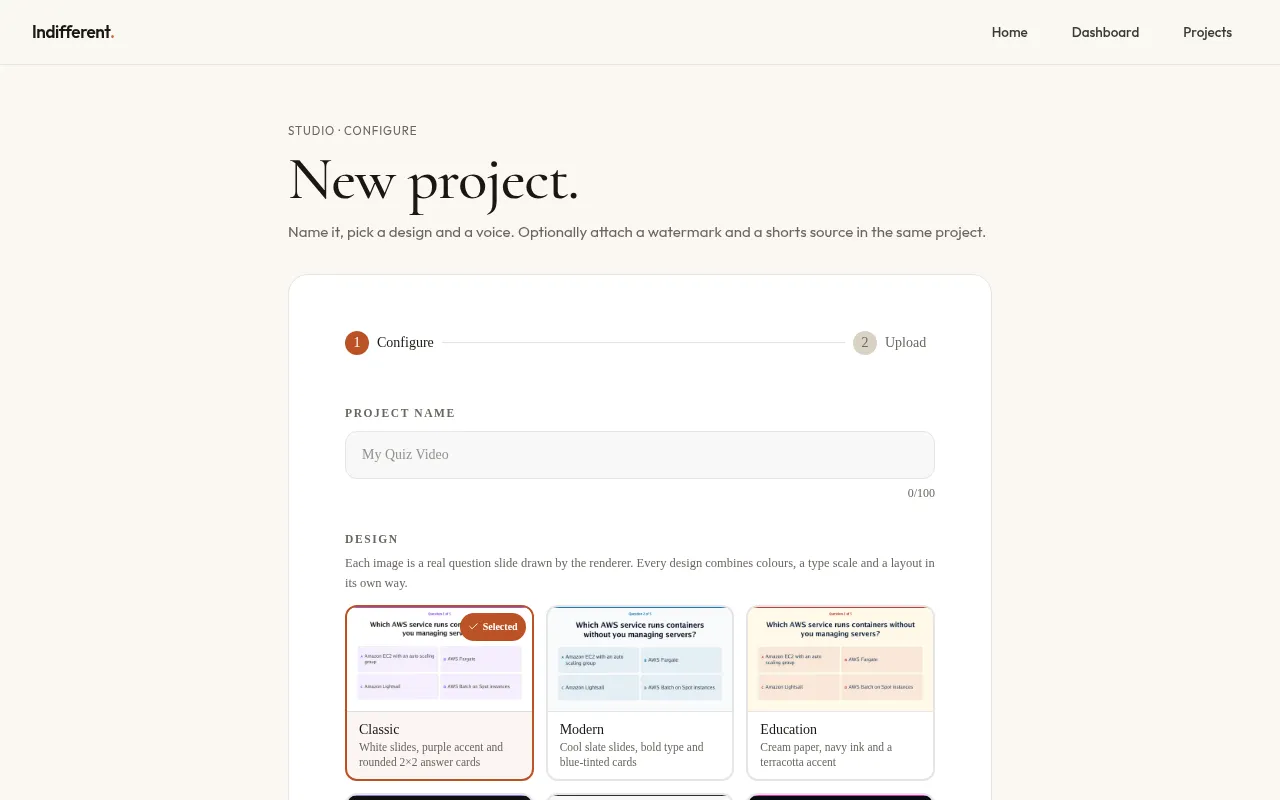
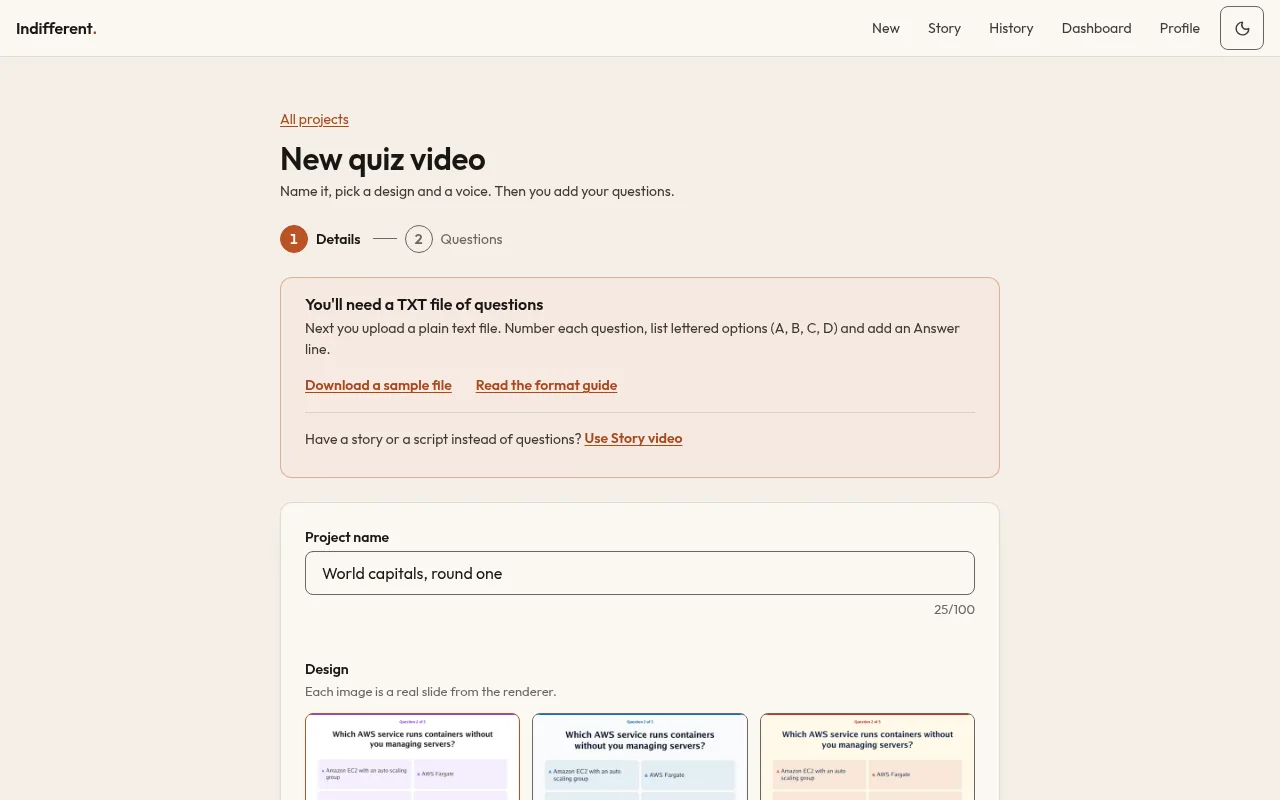
Final QA: render and touch-target fixes, CSP, SEO checker, navbar, screenshots (#256)
- Landing 'Start creating' no longer wraps at 320; use-case links show
  the audience only under 'Other use cases'
- Login: content keeps to a 1440px frame on very wide screens
- Sentence links (login terms, Help email) get 44px hit boxes without
  moving the text; landing footer email gets a 44px target
- Error snackbar: Material 20 --mat-snack-bar-* variables, Outfit, an
  inverse surface in both themes, 44px Dismiss
- Dashboard renders one navigation for the screen (sidebar from 64rem,
  top navbar below) instead of a hidden duplicate
- Profile grid column bounded, so the content tabs scroll in place
  instead of widening the page past 375px
- Activity chart's screen-reader table: cell text hidden too, so no
  hidden text sits under the card
- Thumbnail style tiles: focus ring on the label
- Navbar New goes to /new (tool picker); landmark named App sections
- CSP report-only connect-src adds www.googleadservices.com;
  check-csp.mjs fails if the Ads tag hosts are missing
- seo-files.mjs follows loadChildren routes (/profile/settings)
- /tools and /new screenshots retaken from the redesigned UI with stub
  data; /new uses the same images

diff --git a/frontend/src/app/pages/dashboard/dashboard.component.spec.ts b/frontend/src/app/pages/dashboard/dashboard.component.spec.ts
@@ -55,6 +55,11 @@ const full = (): Data => ({
   thumbnails: of({ thumbnails: [{ jobId: 't1', status: 'completed', thumbnailCount: 3, selected: false, createdAt: '2026-01-05T00:00:00Z', updatedAt: '2026-01-05T00:00:00Z' }], hasMore: false }),
 });
 
+/** Pretends the screen is at least 64rem wide (sidebar) or narrower (top navbar). */
+function screen(wide: boolean) {
+  spyOn(window, 'matchMedia').and.returnValue({ matches: wide, addEventListener: () => undefined, removeEventListener: () => undefined } as unknown as MediaQueryList);
+}
+
 function setup(data: Data) {
   TestBed.configureTestingModule({
     imports: [DashboardComponent],
@@ -164,6 +169,7 @@ describe('DashboardComponent', () => {
     expect(text('total')).toBe('16');
   });
   it('uses the shared app navbar and exactly one h1', () => {
+    screen(false);
     const { el } = setup(full());
     expect(el.querySelector('app-navbar')).toBeTruthy();
     expect(el.querySelectorAll('h1').length).toBe(1);
@@ -239,7 +245,19 @@ describe('DashboardComponent', () => {
     TestBed.resetTestingModule();
     expect(setup(none).el.querySelector('[data-testid="rendering"]')).toBeNull();
   });
+  it('renders one navigation for the screen: the top navbar when narrow, the sidebar from 64rem (#256)', () => {
+    screen(false);
+    let { el } = setup(full());
+    expect(el.querySelector('app-navbar')).toBeTruthy();
+    expect(el.querySelector('app-dashboard-sidebar')).toBeNull();
+    TestBed.resetTestingModule();
+    (window.matchMedia as jasmine.Spy).and.returnValue({ matches: true, addEventListener: () => undefined, removeEventListener: () => undefined } as unknown as MediaQueryList);
+    ({ el } = setup(full()));
+    expect(el.querySelector('app-dashboard-sidebar')).toBeTruthy();
+    expect(el.querySelector('app-navbar')).toBeNull();
+  });
   it('has desktop sidebar links to existing pages', () => {
+    screen(true);
     const { el } = setup(full());
     const hrefs = Array.from(el.querySelectorAll('app-dashboard-sidebar nav a')).map((a) => a.getAttribute('href'));
     expect(hrefs).toEqual(['/dashboard', '/projects', '/shorts', '/story', '/shorts/history', '/tools/add-watermark', '/profile']);

diff --git a/frontend/src/app/pages/dashboard/dashboard.component.ts b/frontend/src/app/pages/dashboard/dashboard.component.ts
@@ -1,4 +1,4 @@
-import { Component, OnInit, inject } from '@angular/core';
+import { Component, DestroyRef, OnInit, inject, signal } from '@angular/core';
 import { HttpContext } from '@angular/common/http';
 import { CommonModule } from '@angular/common';
 import { RouterLink } from '@angular/router';
@@ -107,9 +107,14 @@ const RECENT_LIMIT = 10;
     @media (prefers-reduced-motion: reduce) { .tool { transition: none; } .tool:hover { transform: none; } }
   `],
   template: `
-    <app-navbar class="top" />
+    <!-- One navigation for the screen: the sidebar from 64rem, the shared top navbar below (#256). -->
+    @if (!wide()) {
+      <app-navbar class="top" />
+    }
     <div class="shell">
-      <app-dashboard-sidebar class="side" />
+      @if (wide()) {
+        <app-dashboard-sidebar class="side" />
+      }
       <main id="main" class="hm">
         <app-email-confirm-banner />
         <div class="head">
@@ -266,6 +271,9 @@ export class DashboardComponent implements OnInit {
   private readonly storyVideos = inject(StoryVideoService);
   private readonly thumbnails = inject(ThumbnailService);
   private readonly api = inject(ApiService);
+  private readonly destroyRef = inject(DestroyRef);
+  /** True from 64rem, where the sidebar replaces the top navbar. */
+  readonly wide = signal(false);
 
   greeting = greetingFor(new Date(), null);
   readonly today = new Date().toLocaleDateString(undefined, { weekday: 'long', day: 'numeric', month: 'long', year: 'numeric' });
@@ -322,6 +330,13 @@ export class DashboardComponent implements OnInit {
   ];
 
   ngOnInit(): void {
+    if (typeof window !== 'undefined' && typeof window.matchMedia === 'function') {
+      const query = window.matchMedia('(min-width: 64rem)');
+      const onChange = (e: MediaQueryListEvent) => this.wide.set(e.matches);
+      this.wide.set(query.matches);
+      query.addEventListener('change', onChange);
+      this.destroyRef.onDestroy(() => query.removeEventListener('change', onChange));
+    }
     this.reload();
     // The greeting only needs the name; without it the page still works.
     this.api

diff --git a/frontend/src/app/auth/components/login.component.ts b/frontend/src/app/auth/components/login.component.ts
@@ -22,6 +22,8 @@ import { OAuthFlow, createOAuthFlow, rememberOAuthFlow } from '../oauth-flow';
     /* Left: a solid dark brand panel. Under 64rem it is a short band above the form. */
     .brand-panel { background: var(--color-paper); color: var(--color-ink); padding: var(--space-xl) var(--gutter); display: flex; flex-direction: column; gap: var(--space-xl); }
     @media (min-width: 64rem) { .brand-panel { padding: var(--space-2xl); justify-content: space-between; min-height: 100dvh; } }
+    /* On very wide screens the two halves keep to a 1440px frame instead of reaching the edges (#256). */
+    @media (min-width: 90rem) { .brand-panel { padding-inline-start: max(var(--space-2xl), calc((100vw - 1440px) / 2)); } .form-panel { padding-inline-end: max(var(--gutter), calc((100vw - 1440px) / 2)); } }
     .brand { display: inline-flex; align-items: center; min-height: 44px; width: max-content; font-size: var(--type-lg); font-weight: 600; letter-spacing: -0.01em; color: var(--color-ink); text-decoration: none; }
     .brand .dot { color: var(--color-accent-text); }
     .brand:focus-visible { outline: 2px solid var(--color-focus); outline-offset: 2px; border-radius: 2px; }
@@ -52,7 +54,8 @@ import { OAuthFlow, createOAuthFlow, rememberOAuthFlow } from '../oauth-flow';
     .perks li { padding-left: var(--space-md); position: relative; }
     .perks li::before { content: ''; position: absolute; left: 0; top: 0.6em; width: 8px; height: 2px; background: var(--color-accent); }
     .terms { margin-top: var(--space-xl); font-size: var(--type-sm); color: var(--color-muted); }
-    .terms a { font-weight: 400; min-height: 0; }
+    /* In-sentence links stay inline; the padding makes the tap target 44px tall without moving the text (#256). */
+    .terms a { font-weight: 400; min-height: 0; display: inline; padding-block: 11px; }
     .back { margin-top: var(--space-xs); font-size: var(--type-sm); color: var(--color-muted); text-decoration: none; }
     .back:hover { color: var(--color-ink); text-decoration: underline; }
   `],

diff --git a/frontend/src/app/pages/new/new.component.ts b/frontend/src/app/pages/new/new.component.ts
@@ -20,7 +20,7 @@ import { FORMAT_GUIDE_PATH, SAMPLE_FILE_PATH } from '../progress/failure-message
 
         <div class="tools">
           <section class="ui-card tool" aria-labelledby="t-shorts" data-testid="tool-shorts">
-            <img src="/screenshots/shorts-hero-still.png" alt="" width="640" height="400" loading="eager" />
+            <img src="/screenshots/tools-shorts.webp" alt="" width="1280" height="800" loading="eager" />
             <div class="body">
               <p class="kind"><svg lucideIcon="scissors" [size]="16" aria-hidden="true"></svg>Vertical clips</p>
               <h2 id="t-shorts" class="ui-card-title">AI Shorts</h2>
@@ -30,7 +30,7 @@ import { FORMAT_GUIDE_PATH, SAMPLE_FILE_PATH } from '../progress/failure-message
           </section>
 
           <section class="ui-card tool" aria-labelledby="t-quiz" data-testid="tool-quiz">
-            <img src="/screenshots/quiz-create.png" alt="" width="640" height="400" loading="eager" />
+            <img src="/screenshots/tools-quiz.webp" alt="" width="1280" height="800" loading="eager" />
             <div class="body">
               <p class="kind"><svg lucideIcon="file-text" [size]="16" aria-hidden="true"></svg>Quiz videos</p>
               <h2 id="t-quiz" class="ui-card-title">TXT to quiz video</h2>
@@ -57,7 +57,7 @@ import { FORMAT_GUIDE_PATH, SAMPLE_FILE_PATH } from '../progress/failure-message
           </section>
 
           <section class="ui-card tool" aria-labelledby="t-wm" data-testid="tool-watermark">
-            <img src="/screenshots/watermark-tool.png" alt="" width="640" height="400" loading="lazy" />
+            <img src="/screenshots/tools-watermark.webp" alt="" width="1280" height="800" loading="lazy" />
             <div class="body">
               <p class="kind"><svg lucideIcon="stamp" [size]="16" aria-hidden="true"></svg>Free tool</p>
               <h2 id="t-wm" class="ui-card-title">Watermark tool</h2>

diff --git a/frontend/src/app/pages/landing/landing.component.ts b/frontend/src/app/pages/landing/landing.component.ts
@@ -91,7 +91,8 @@ import { FREE_BETA_FAQ } from '../../core/config/free-beta';
     /* Closing block */
     .closing { background: var(--color-paper); color: var(--color-ink); padding: var(--space-3xl) 0 var(--space-xl); }
     .closing a { color: inherit; }
-    .closing .ui-btn--primary { color: var(--color-accent-ink); }
+    .foot-mail { display: inline-flex; align-items: center; min-height: 44px; text-underline-offset: 0.2em; }
+    .closing .ui-btn--primary { color: var(--color-accent-ink); white-space: nowrap; }
     .pair { display: grid; grid-template-columns: minmax(0, 1fr); gap: var(--space-2xl); }
     @media (min-width: 64rem) { .pair { grid-template-columns: repeat(2, minmax(0, 1fr)); } }
     .wordmark { margin: var(--space-3xl) 0 0; text-align: center; font-family: var(--font-display); font-weight: 500; line-height: 1; letter-spacing: -0.03em; font-size: clamp(2.5rem, 12vw, 9rem); color: var(--color-ink-2); user-select: none; overflow-wrap: anywhere; }
@@ -355,7 +356,7 @@ Answer: C</code></pre>
                 If something breaks, you can reach the person who wrote it.
               </p>
               <p class="body">
-                <a href="mailto:support@indifferent.fun" style="text-underline-offset:0.2em">support&#64;indifferent.fun</a>
+                <a href="mailto:support@indifferent.fun" class="foot-mail">support&#64;indifferent.fun</a>
               </p>
             </div>
           </div>
@@ -397,7 +398,7 @@ Answer: C</code></pre>
             </div>
             <div class="legal">
               <span>© {{ currentYear }} Indifferent. All rights reserved.</span>
-              <a href="mailto:support@indifferent.fun" style="text-underline-offset:0.2em">support&#64;indifferent.fun</a>
+              <a href="mailto:support@indifferent.fun" class="foot-mail">support&#64;indifferent.fun</a>
             </div>
           </footer>
         </div>

diff --git a/frontend/src/app/pages/use-cases/use-case.component.ts b/frontend/src/app/pages/use-cases/use-case.component.ts
@@ -161,7 +161,7 @@ export const USE_CASE_DATA: Record<string, UseCaseData> = {
             <p class="others-title">Other use cases</p>
             <div class="others">
               @for (u of others; track u.slug) {
-                <a [routerLink]="['/use-cases', u.slug]" class="ui-btn ui-btn--secondary">{{ u.title }}</a>
+                <a [routerLink]="['/use-cases', u.slug]" class="ui-btn ui-btn--secondary">{{ audience(u) }}</a>
               }
             </div>
           </div>
@@ -177,6 +177,12 @@ export class UseCaseComponent implements OnInit {
   private readonly destroyRef = inject(DestroyRef);
   data: UseCaseData = USE_CASE_DATA['content-creators'];
   others: UseCaseData[] = [];
+
+  /** "Media companies" from "AI Shorts Maker for Media Companies": the heading already says what these are (#256). */
+  audience(u: UseCaseData): string {
+    const who = u.title.replace(/^AI Shorts Maker for\s+/i, '');
+    return who.charAt(0).toUpperCase() + who.slice(1).toLowerCase();
+  }
   currentYear = new Date().getFullYear();
   ngOnInit(): void {
     // The router reuses this component when only :slug changes, as it does for the

diff --git a/frontend/src/app/pages/help/help.component.ts b/frontend/src/app/pages/help/help.component.ts
@@ -70,7 +70,8 @@ export const GENERAL_FAQ: FeatureFaq[] = [
     .link:focus-visible { outline: 2px solid var(--color-focus); outline-offset: 2px; border-radius: 2px; }
     .stuck { background: var(--color-paper-2); border-top: 1px solid var(--color-rule); padding: var(--space-2xl) 0; }
     .stuck p { margin-top: var(--space-sm); color: var(--color-ink-2); max-width: 60ch; }
-    .stuck a { color: var(--color-accent-text); text-decoration: underline; text-underline-offset: 0.2em; }
+    /* In-sentence links stay inline; the padding makes the tap target 44px tall without moving the text (#256). */
+    .stuck a { color: var(--color-accent-text); text-decoration: underline; text-underline-offset: 0.2em; padding-block: 13px; }
     .stuck a:hover { color: var(--color-ink); }
     .stuck a:focus-visible { outline: 2px solid var(--color-focus); outline-offset: 2px; border-radius: 2px; }
   `],

diff --git a/frontend/src/styles.css b/frontend/src/styles.css
@@ -48,9 +48,12 @@ input:focus-visible,
 
 /* Error snackbar (core/services/error.service.ts). The action button gets a 44px target. */
 .mat-mdc-snack-bar-container {
-  --mdc-snackbar-container-color: var(--color-ink) !important;
-  --mdc-snackbar-supporting-text-color: var(--color-paper) !important;
-  --mat-snack-bar-button-color: var(--color-paper) !important;
+  /* Material 20 reads --mat-snack-bar-*: an inverse surface (ink on paper themes, paper on ink). */
+  --mat-snack-bar-container-color: var(--color-ink);
+  --mat-snack-bar-supporting-text-color: var(--color-paper);
+  --mat-snack-bar-button-color: var(--color-paper);
+  --mat-snack-bar-supporting-text-font: var(--font-body);
+  --mat-snack-bar-container-shape: var(--radius-control);
 }
 .mat-mdc-snack-bar-container .mat-mdc-button {
   min-height: var(--control-height);

diff --git a/frontend/src/app/shared/components/navbar/navbar.component.ts b/frontend/src/app/shared/components/navbar/navbar.component.ts
@@ -34,8 +34,8 @@ import { ThemeService } from '../../../core/services/theme.service';
     <header class="bar">
       <div class="row">
         <a routerLink="/" class="brand">Indifferent<span class="dot">.</span></a>
-        <nav aria-label="Shorts sections">
-          <a routerLink="/shorts" routerLinkActive="active" [routerLinkActiveOptions]="{ exact: true }" class="link">New</a>
+        <nav aria-label="App sections">
+          <a routerLink="/new" routerLinkActive="active" [routerLinkActiveOptions]="{ exact: true }" class="link">New</a>
           <a routerLink="/story" routerLinkActive="active" class="link">Story</a>
           <a routerLink="/shorts/history" routerLinkActive="active" class="link wide">History</a>
           <a routerLink="/dashboard" routerLinkActive="active" class="link wide">Dashboard</a>

diff --git a/frontend/src/app/pages/dashboard/activity-chart.component.ts b/frontend/src/app/pages/dashboard/activity-chart.component.ts
@@ -36,11 +36,12 @@ import { DayBucket } from './activity';
         <span>{{ label(days()[0]) }}</span>
         <span>Today</span>
       </div>
+      <!-- Each cell's text is hidden too, so the cells collapse and no hidden text sits under the card (#256). -->
       <table class="sr-only">
         <caption>Work per day, last 14 days</caption>
-        <tr><th scope="col">Day</th><th scope="col">Pieces of work</th></tr>
+        <tr><th scope="col"><span class="sr-only">Day</span></th><th scope="col"><span class="sr-only">Pieces of work</span></th></tr>
         @for (d of days(); track d.key) {
-          <tr><td>{{ label(d) }}</td><td>{{ d.count }}</td></tr>
+          <tr><td><span class="sr-only">{{ label(d) }}</span></td><td><span class="sr-only">{{ d.count }}</span></td></tr>
         }
       </table>
     }

diff --git a/frontend/src/app/pages/thumbnails/thumbnail-style-selector.component.ts b/frontend/src/app/pages/thumbnails/thumbnail-style-selector.component.ts
@@ -51,7 +51,7 @@ import { THUMBNAIL_STYLES, ThumbnailFormat, ThumbnailStyle } from './thumbnail.s
     .opt small { font-size: var(--type-xs); color: var(--color-muted); }
     /* Selected and focus states hang off the hidden radio via the sibling selector. */
     input:checked + .opt { border: 2px solid var(--color-accent); background: color-mix(in oklab, var(--color-accent) 8%, var(--app-card, var(--color-paper))); }
-    input:focus-visible + .opt { outline: 2px solid var(--color-focus); outline-offset: 2px; }
+    .choice:has(input:focus-visible) { outline: 2px solid var(--color-focus); outline-offset: 2px; border-radius: var(--radius-control); }
     @media (prefers-reduced-motion: reduce) { .opt { transition: none; } }
   `],
 })

diff --git a/frontend/src/app/shared/components/navbar/navbar.component.spec.ts b/frontend/src/app/shared/components/navbar/navbar.component.spec.ts
@@ -15,8 +15,10 @@ function render(): HTMLElement {
 
 describe('NavbarComponent', () => {
   it('links to every signed-in section, including the Story tool', () => {
-    const hrefs = Array.from(render().querySelectorAll('nav a')).map((a) => a.getAttribute('href'));
-    expect(hrefs).toContain('/shorts');
+    const links = Array.from(render().querySelectorAll('nav a'));
+    const hrefs = links.map((a) => a.getAttribute('href'));
+    // New opens the tool picker (#256); Shorts is one of the tools on it.
+    expect(links.find((a) => a.textContent!.trim() === 'New')!.getAttribute('href')).toBe('/new');
     expect(hrefs).toContain('/story');
     expect(hrefs).toContain('/shorts/history');
     expect(hrefs).toContain('/dashboard');
